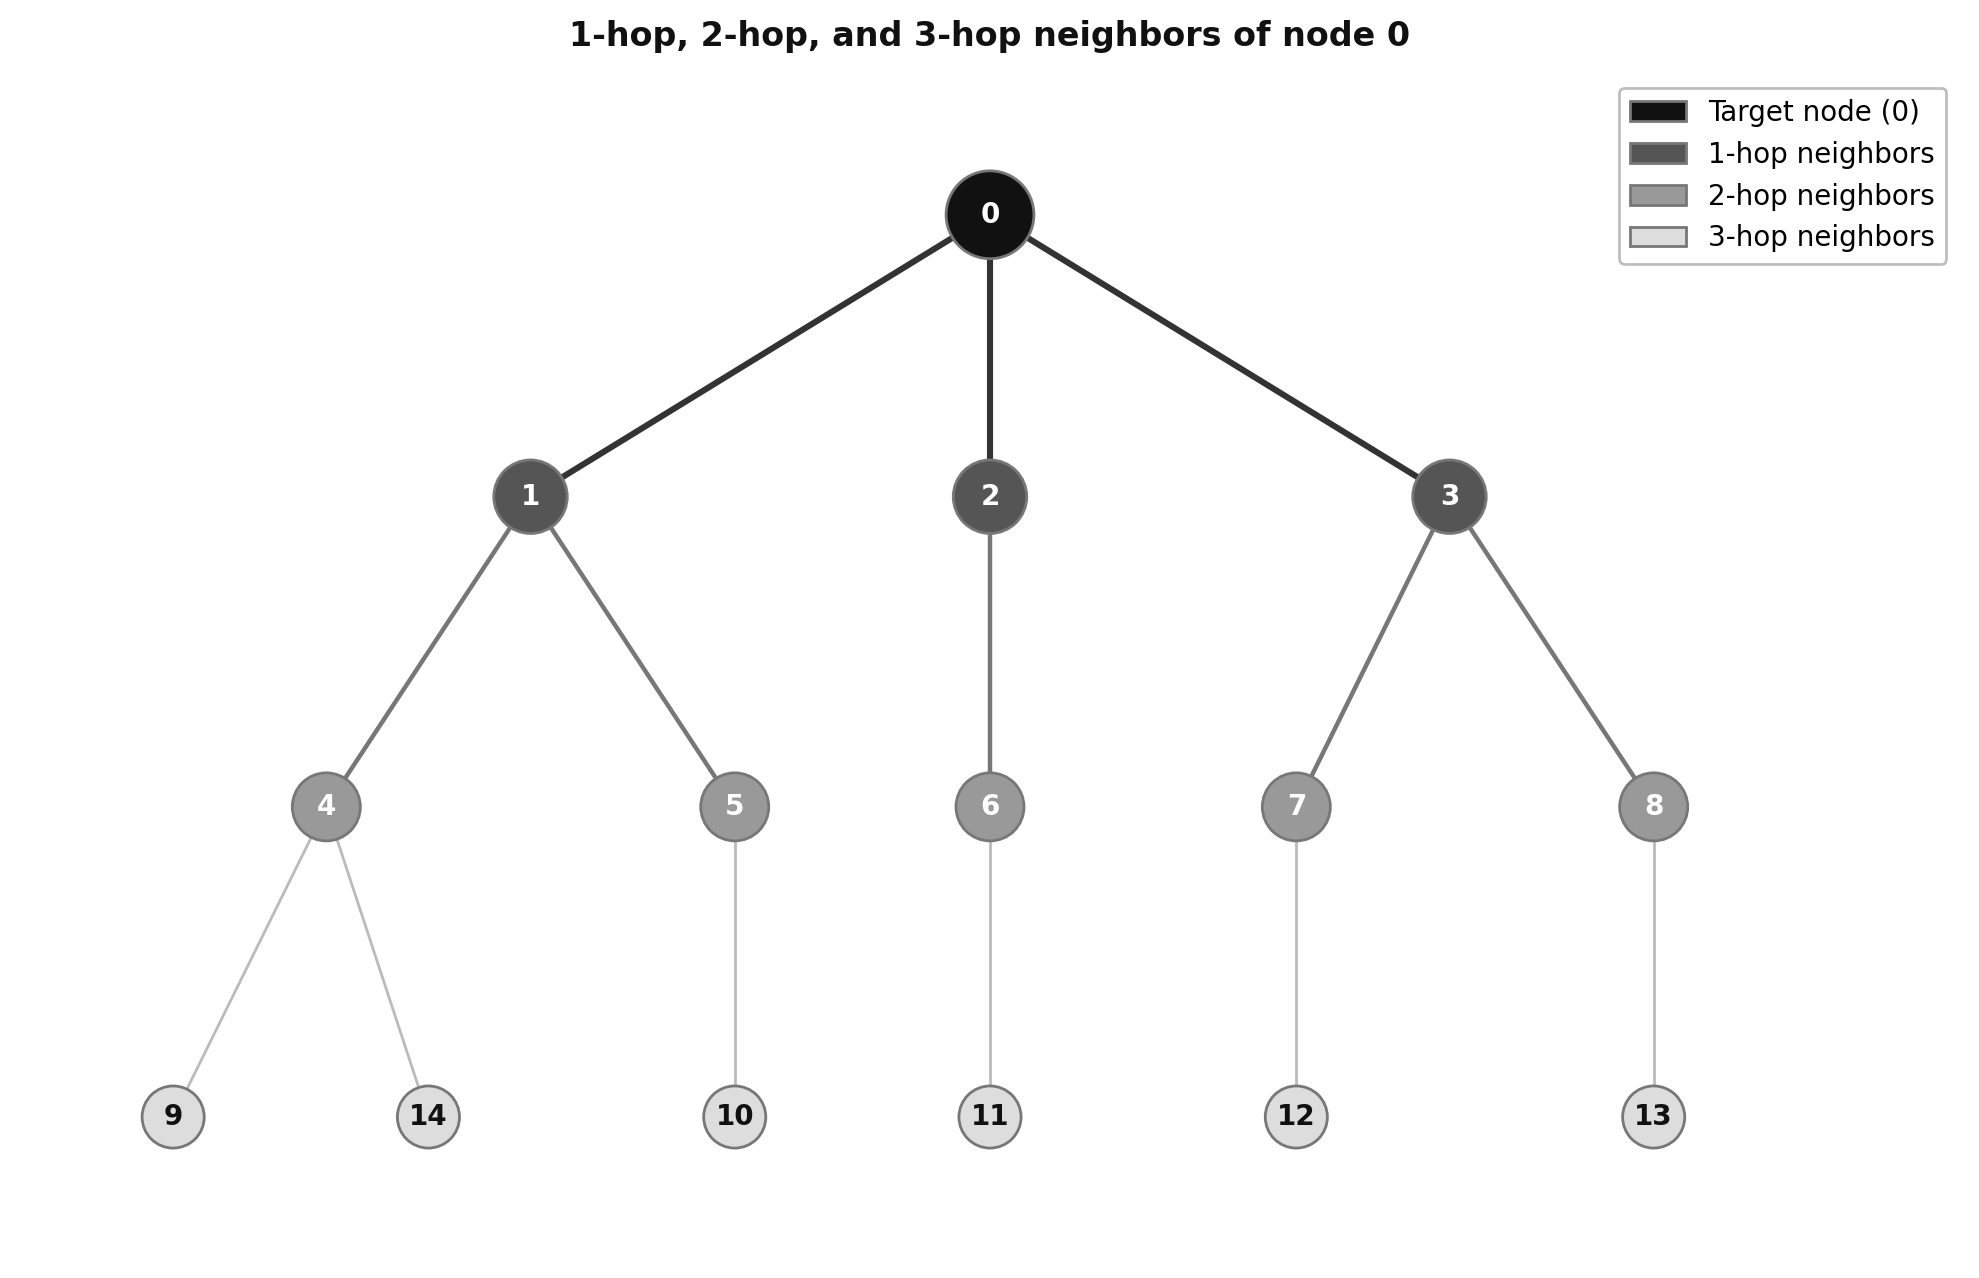
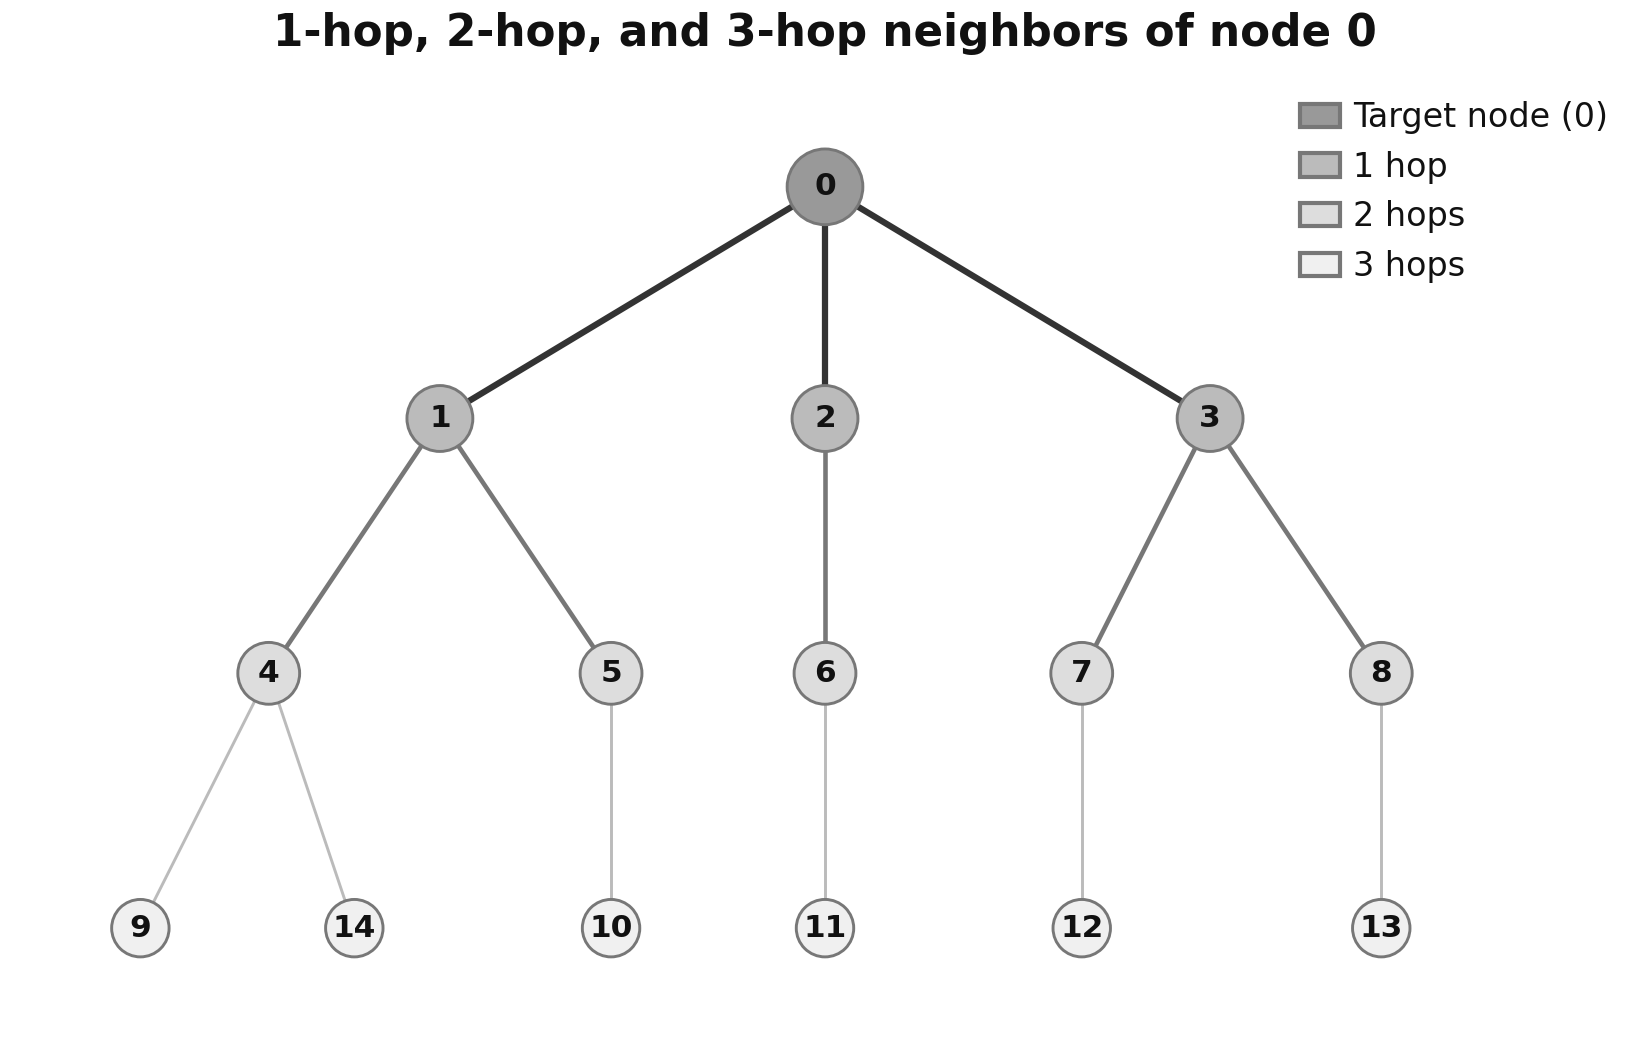
Redraw Chapter 12's three conceptual figures at the printed width
12.1, 12.2 and 12.3 were rejected for readability. The SEAL framework ran its
five stages across 14 inches; it now runs down the page, with each step's
detail inside its box rather than under it, where it sat on the arrow to the
next step.

Figure 12.4 is deliberately left as it is. The chapter does not reproduce:
two consecutive runs of the committed code give test AUC 0.8644 and 0.8624
against the 0.8817 its log and the book's text record, so a regenerated table
would contradict the chapter. run.py is therefore untouched as well, so that
running it cannot overwrite the verified figure.

diff --git a/Chapter12/figures/generate_figures.py b/Chapter12/figures/generate_figures.py
@@ -12,54 +12,44 @@ Run: python generate_figures.py
 """
 
 import os
+import sys
 
 import numpy as np
-import matplotlib
-matplotlib.use('Agg')
-import matplotlib.pyplot as plt
 import matplotlib.patches as mpatches
-from matplotlib.patches import FancyBboxPatch
+from matplotlib.patches import Rectangle
 import networkx as nx
 
+sys.path.insert(0, os.path.join(os.path.dirname(os.path.abspath(__file__)),
+                                '..', '..', 'tools'))
+from bookstyle import (apply, figure, save as save_fig, FONT, BG, INK,
+                       INK_SOFT, FILLS, G1, G2, G3, G4, G5, G6)
+
+plt = apply()
+G0 = "#111111"
 SEED = 0
 np.random.seed(SEED)
-
 OUT = os.path.dirname(os.path.abspath(__file__))
 
-FONT = "DejaVu Sans"
-BG = "white"
-G0 = "#111111"
-G1 = "#333333"
-G2 = "#555555"
-G3 = "#777777"
-G4 = "#999999"
-G5 = "#BBBBBB"
-G6 = "#DDDDDD"
 
-
-def save(fig, name, dpi=200):
-    fig.savefig(os.path.join(OUT, name), dpi=dpi, bbox_inches='tight',
-                facecolor=BG, edgecolor='none')
-    plt.close(fig)
+def save(fig, name):
+    save_fig(fig, os.path.join(OUT, name))
     print(f"  saved {name}")
 
 
-def rbox(ax, x, y, w, h, lines, fill, fc='white', fs=11, line_gap=0.30):
-    ax.add_patch(FancyBboxPatch((x - w/2, y - h/2), w, h,
-                                boxstyle="round,pad=0.02,rounding_size=0.06",
-                                facecolor=fill, edgecolor=G3,
-                                linewidth=1.2, zorder=3))
-    n = len(lines)
-    for i, line in enumerate(lines):
-        ax.text(x, y + (n - 1) / 2 * line_gap - i * line_gap, line,
-                ha='center', va='center', fontsize=fs, color=fc,
-                fontweight='bold', fontfamily=FONT, zorder=4)
+def rbox(ax, x, y, w, h, lines, fill, fc=None, fs=8, line_gap=None):
+    """Square corners, dark type on a light fill; `fc` and `line_gap` are
+    accepted and ignored, matplotlib spaces the lines itself."""
+    ax.add_patch(Rectangle((x - w/2, y - h/2), w, h, facecolor=fill,
+                           edgecolor=G3, linewidth=0.8, zorder=3))
+    ax.text(x, y, "\n".join(lines), ha='center', va='center', fontsize=fs,
+            color=INK, fontweight='bold', fontfamily=FONT, linespacing=1.5,
+            zorder=4)
 
 
-def arr(ax, x1, y1, x2, y2, color=G2, lw=2.0):
+def arr(ax, x1, y1, x2, y2, color=G3, lw=1.1):
     ax.annotate("", xy=(x2, y2), xytext=(x1, y1),
                 arrowprops=dict(arrowstyle="-|>", color=color,
-                                lw=lw, mutation_scale=16), zorder=2)
+                                lw=lw, mutation_scale=9), zorder=2)
 
 
 # =============================================================================
@@ -77,9 +67,11 @@ G = nx.Graph()
 G.add_edges_from(edges)
 
 hops = nx.single_source_shortest_path_length(G, 0)
-SHADE = {0: G0, 1: G2, 2: G4, 3: G6}
-SIZE = {0: 1000, 1: 700, 2: 600, 3: 500}
-LABEL = {0: 'white', 1: 'white', 2: 'white', 3: G0}
+# Light fills with dark numbers: white digits on a mid grey close up in
+# print at this size.
+SHADE = {0: G4, 1: G5, 2: G6, 3: '#F0F0F0'}
+SIZE = {0: 330, 1: 250, 2: 220, 3: 190}
+LABEL = {0: INK, 1: INK, 2: INK, 3: INK}
 
 pos = {
     0: (0.0, 0.0),
@@ -89,34 +81,33 @@ pos = {
     12: (1.2, -3.2), 13: (2.6, -3.2),
 }
 
-fig, ax = plt.subplots(figsize=(10, 6.5))
-fig.patch.set_facecolor(BG); ax.set_facecolor(BG); ax.axis('off')
+fig, ax = figure(aspect=0.64)
+ax.set_facecolor(BG); ax.axis('off')
 
 edge_color = [G1 if min(hops[u], hops[v]) == 0 else
               G3 if min(hops[u], hops[v]) == 1 else G5 for u, v in G.edges()]
-edge_width = [2.2 if min(hops[u], hops[v]) == 0 else
-              1.6 if min(hops[u], hops[v]) == 1 else 1.0 for u, v in G.edges()]
+edge_width = [1.5 if min(hops[u], hops[v]) == 0 else
+              1.1 if min(hops[u], hops[v]) == 1 else 0.7 for u, v in G.edges()]
 nx.draw_networkx_edges(G, pos, ax=ax, edge_color=edge_color, width=edge_width)
 nx.draw_networkx_nodes(G, pos, ax=ax,
                        node_color=[SHADE[hops[n]] for n in G.nodes()],
                        node_size=[SIZE[hops[n]] for n in G.nodes()],
-                       edgecolors=G3, linewidths=1.0)
+                       edgecolors=G3, linewidths=0.7)
 for n, (x, y) in pos.items():
-    ax.text(x, y, str(n), ha='center', va='center', fontsize=10,
+    ax.text(x, y, str(n), ha='center', va='center', fontsize=7.5,
             fontweight='bold', color=LABEL[hops[n]], fontfamily=FONT, zorder=5)
 
 handles = [
-    mpatches.Patch(facecolor=G0, edgecolor=G3, label='Target node (0)'),
-    mpatches.Patch(facecolor=G2, edgecolor=G3, label='1-hop neighbors'),
-    mpatches.Patch(facecolor=G4, edgecolor=G3, label='2-hop neighbors'),
-    mpatches.Patch(facecolor=G6, edgecolor=G3, label='3-hop neighbors'),
+    mpatches.Patch(facecolor=SHADE[0], edgecolor=G3, label='Target node (0)'),
+    mpatches.Patch(facecolor=SHADE[1], edgecolor=G3, label='1 hop'),
+    mpatches.Patch(facecolor=SHADE[2], edgecolor=G3, label='2 hops'),
+    mpatches.Patch(facecolor=SHADE[3], edgecolor=G3, label='3 hops'),
 ]
-ax.legend(handles=handles, loc='upper right', fontsize=10,
-          framealpha=0.95, edgecolor=G5)
+ax.legend(handles=handles, loc='upper right', fontsize=8,
+          frameon=False, handlelength=1.2, handletextpad=0.4)
 ax.set_xlim(-3.8, 3.8); ax.set_ylim(-3.7, 0.5)
 ax.set_title("1-hop, 2-hop, and 3-hop neighbors of node 0",
-             fontsize=12, fontweight='bold', color=G0, fontfamily=FONT, pad=10)
-fig.tight_layout()
+             fontsize=10.5, fontweight='bold', color=INK, fontfamily=FONT)
 save(fig, "fig12_1_hops.png")
 
 
@@ -132,8 +123,8 @@ upper = np.triu(rng.random((n, n)) < 0.45, k=1)
 A = (upper | upper.T).astype(int)
 Z = 0.15 + 0.7 * rng.random((n, d))
 
-fig, ax = plt.subplots(figsize=(11, 5))
-fig.patch.set_facecolor(BG); ax.set_facecolor(BG); ax.axis('off')
+fig, ax = figure(aspect=0.46)
+ax.set_facecolor(BG); ax.axis('off')
 ax.set_xlim(0, 11); ax.set_ylim(0, 5.2)
 
 CELL = 0.5
@@ -149,27 +140,27 @@ def draw_matrix(ax, x0, y0, values, label, dims):
     ax.add_patch(plt.Rectangle((x0, y0), cols * CELL, rows * CELL,
                                facecolor='none', edgecolor=G1, linewidth=1.5))
     ax.text(x0 + cols * CELL / 2, y0 + rows * CELL + 0.2, label,
-            ha='center', va='bottom', fontsize=12, fontweight='bold',
-            color=G0, fontfamily=FONT)
+            ha='center', va='bottom', fontsize=10, fontweight='bold',
+            color=INK, fontfamily=FONT)
     ax.text(x0 + cols * CELL / 2, y0 - 0.25, dims, ha='center', va='top',
-            fontsize=10, color=G3, fontstyle='italic', fontfamily=FONT)
+            fontsize=8, color=INK_SOFT, fontstyle='italic', fontfamily=FONT)
 
 
 mid = 2.6
 draw_matrix(ax, 0.4, mid - n * CELL / 2, np.where(A == 1, 0.2, 0.87), "A", "n × n")
-ax.text(3.35, mid, "≈", ha='center', va='center', fontsize=30,
-        color=G0, fontfamily=FONT)
+ax.text(3.35, mid, "≈", ha='center', va='center', fontsize=18,
+        color=INK, fontfamily=FONT)
 draw_matrix(ax, 4.0, mid - n * CELL / 2, Z, "Z", "n × d")
-ax.text(6.0, mid, "×", ha='center', va='center', fontsize=26,
-        color=G0, fontfamily=FONT)
+ax.text(6.0, mid, "×", ha='center', va='center', fontsize=16,
+        color=INK, fontfamily=FONT)
 draw_matrix(ax, 6.6, mid - d * CELL / 2, Z.T, "Zᵀ", "d × n")
 
 ax.text(5.5, 0.15,
         "n = number of nodes,  d = embedding dimension (d ≪ n)",
-        ha='center', fontsize=10, color=G3, fontstyle='italic', fontfamily=FONT)
+        ha='center', fontsize=8, color=INK_SOFT, fontstyle='italic',
+        fontfamily=FONT)
 ax.set_title("Matrix factorization: A ≈ Z × Zᵀ",
-             fontsize=12, fontweight='bold', color=G0, fontfamily=FONT, pad=10)
-fig.tight_layout()
+             fontsize=10.5, fontweight='bold', color=INK, fontfamily=FONT)
 save(fig, "fig12_2_matrix_factorization.png")
 
 
@@ -179,49 +170,50 @@ save(fig, "fig12_2_matrix_factorization.png")
 
 print("Figure 12.3 …")
 
-fig, ax = plt.subplots(figsize=(14, 5))
-fig.patch.set_facecolor(BG); ax.set_facecolor(BG); ax.axis('off')
-ax.set_xlim(0, 14); ax.set_ylim(0, 5)
+# Five stages in a row needed 14 inches. They run down the page instead: the
+# input graph at the top, the three steps under it, the answer at the bottom.
+# Each step carries its detail as a third line inside the box; set underneath,
+# the detail landed on the arrow to the next step.
+fig, ax = figure(aspect=1.00)
+ax.set_facecolor(BG); ax.axis('off')
+ax.set_xlim(0, 1); ax.set_ylim(0, 1)
 
 Gs = nx.Graph()
 Gs.add_edges_from([(0, 2), (2, 3), (3, 1), (2, 4), (4, 3), (0, 5), (5, 4)])
-pos_s = {0: (0.45, 3.3), 1: (1.75, 3.3), 2: (0.75, 2.4),
-         3: (1.45, 2.4), 4: (1.1, 1.6), 5: (0.3, 1.6)}
-nx.draw_networkx_edges(Gs, pos_s, ax=ax, edge_color=G4, width=1.2)
+# The panel is square, so these positions are not stretched by the aspect.
+pos_s = {0: (0.38, 0.955), 1: (0.62, 0.955), 2: (0.44, 0.912),
+         3: (0.57, 0.912), 4: (0.50, 0.872), 5: (0.36, 0.872)}
+nx.draw_networkx_edges(Gs, pos_s, ax=ax, edge_color=G4, width=0.8)
 ax.plot([pos_s[0][0], pos_s[1][0]], [pos_s[0][1], pos_s[1][1]],
-        linestyle='--', color=G0, linewidth=2.0, zorder=2)
+        linestyle='--', color=INK, linewidth=1.4, zorder=2)
 nx.draw_networkx_nodes(Gs, pos_s, ax=ax,
-                       node_color=[G0 if v in (0, 1) else G5 for v in Gs.nodes()],
-                       node_size=260, edgecolors=G3, linewidths=0.8)
-ax.text(1.1, 4.15, "Input graph", ha='center', fontsize=11,
-        fontweight='bold', color=G0, fontfamily=FONT)
-ax.text(1.1, 0.95, "dashed line = candidate link\nbetween the two dark nodes",
-        ha='center', va='top', fontsize=9, color=G3, fontstyle='italic',
-        fontfamily=FONT)
+                       node_color=[G4 if v in (0, 1) else G6 for v in Gs.nodes()],
+                       node_size=70, edgecolors=G3, linewidths=0.7)
+ax.text(0.12, 0.93, "Input graph", ha='center', va='center', fontsize=9,
+        fontweight='bold', color=INK, fontfamily=FONT)
+ax.text(0.86, 0.93, "dashed line =\ncandidate link", ha='center', va='center',
+        fontsize=8, color=INK_SOFT, fontstyle='italic', fontfamily=FONT,
+        linespacing=1.4)
 
-boxes = [
-    (4.0, ["Step 1", "Enclosing subgraph", "extraction"], G1,
-     "k-hop neighborhood around\neach candidate link"),
-    (7.3, ["Step 2", "Node information", "matrix construction"], G2,
-     "DRNL labels + optional\nembeddings + node features"),
-    (10.6, ["Step 3", "GNN training", "(DGCNN)"], G3,
-     "Sort pooling, 1D convolutions,\ndense layers"),
+STEPS = [
+    (0.655, "Step 1  Enclosing subgraph extraction\n"
+            "k-hop neighborhood around each candidate link"),
+    (0.435, "Step 2  Node information matrix\n"
+            "DRNL labels + optional embeddings + node features"),
+    (0.215, "Step 3  GNN training (DGCNN)\n"
+            "sort pooling, 1D convolutions, dense layers"),
 ]
-for x, lines, fill, sub in boxes:
-    rbox(ax, x, 2.6, 2.6, 1.7, lines, fill)
-    ax.text(x, 1.45, sub, ha='center', va='top', fontsize=9.5, color=G3,
-            fontstyle='italic', fontfamily=FONT)
+for y, text in STEPS:
+    rbox(ax, 0.5, y, 0.84, 0.115, text.split("\n"), FILLS[1], fs=8)
 
-arr(ax, 2.15, 2.6, 2.65, 2.6)
-arr(ax, 5.35, 2.6, 5.95, 2.6)
-arr(ax, 8.65, 2.6, 9.25, 2.6)
-arr(ax, 11.95, 2.6, 12.55, 2.6)
-ax.text(13.3, 2.6, "Link\nprobability", ha='center', va='center',
-        fontsize=11, color=G0, fontweight='bold', fontfamily=FONT)
+arr(ax, 0.5, 0.835, 0.5, 0.720)
+arr(ax, 0.5, 0.593, 0.5, 0.500)
+arr(ax, 0.5, 0.373, 0.5, 0.280)
+arr(ax, 0.5, 0.153, 0.5, 0.078)
+rbox(ax, 0.5, 0.035, 0.40, 0.070, ["Link probability"], FILLS[2], fs=8.5)
 
-ax.set_title("The SEAL framework: three steps from a candidate link to a link probability",
-             fontsize=12, fontweight='bold', color=G0, fontfamily=FONT, pad=10)
-fig.tight_layout()
+ax.set_title("The SEAL framework: from a candidate link to a probability",
+             fontsize=10.5, fontweight='bold', color=INK, fontfamily=FONT)
 save(fig, "fig12_3_seal_framework.png")
 
 print(f"\nAll figures saved to {OUT}")
